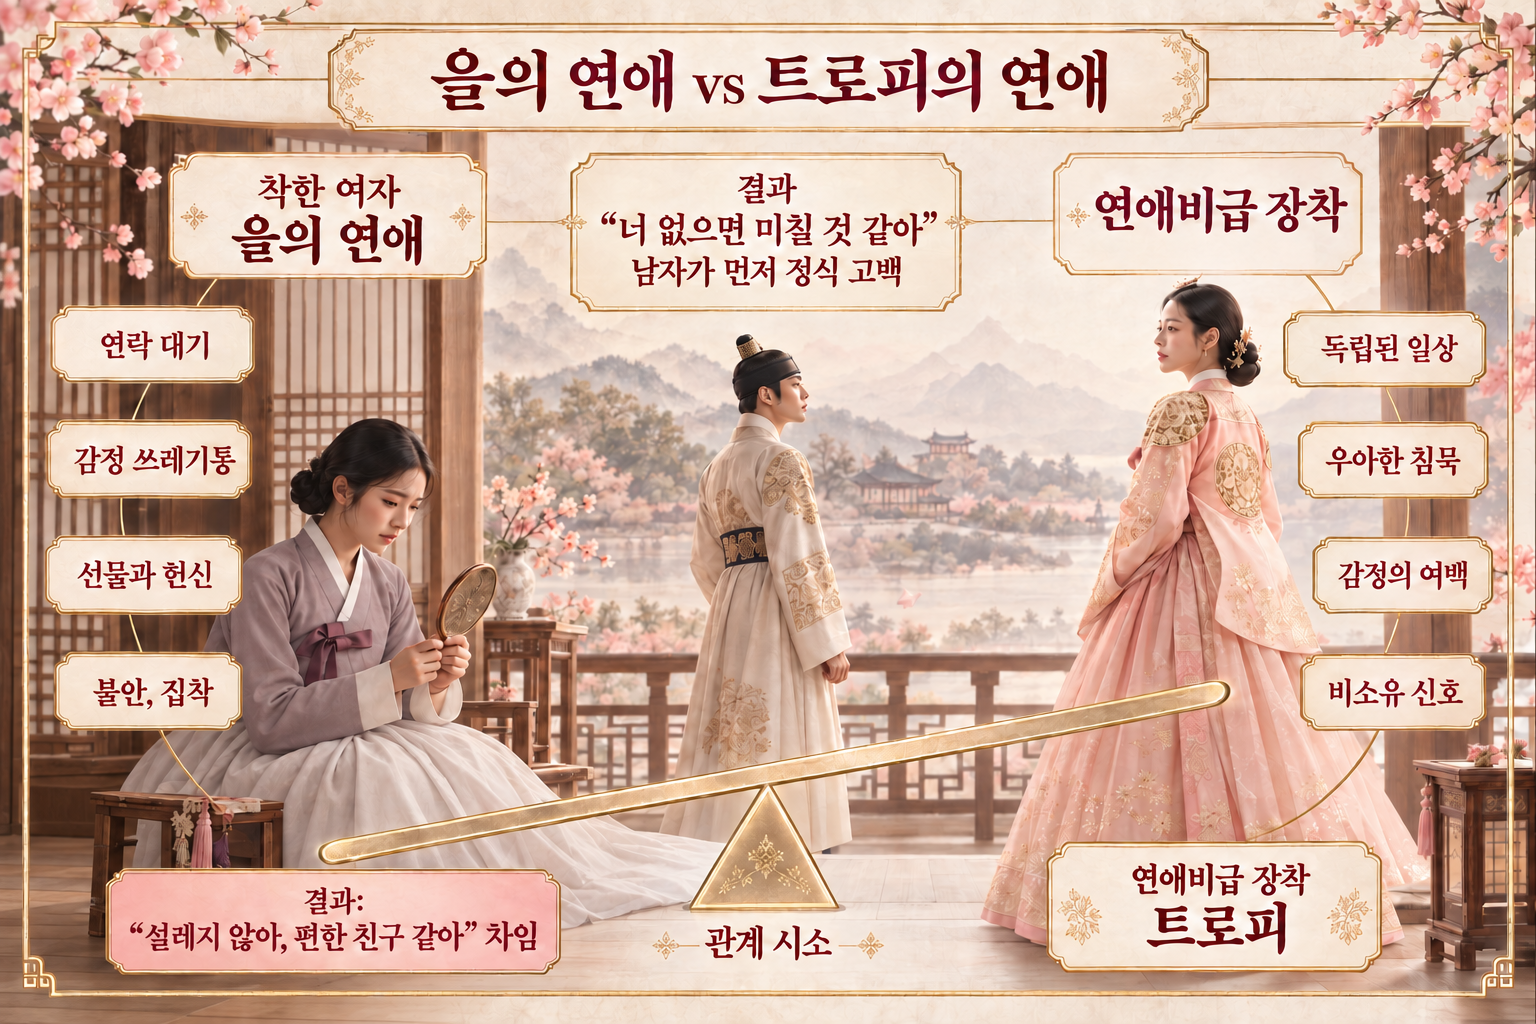
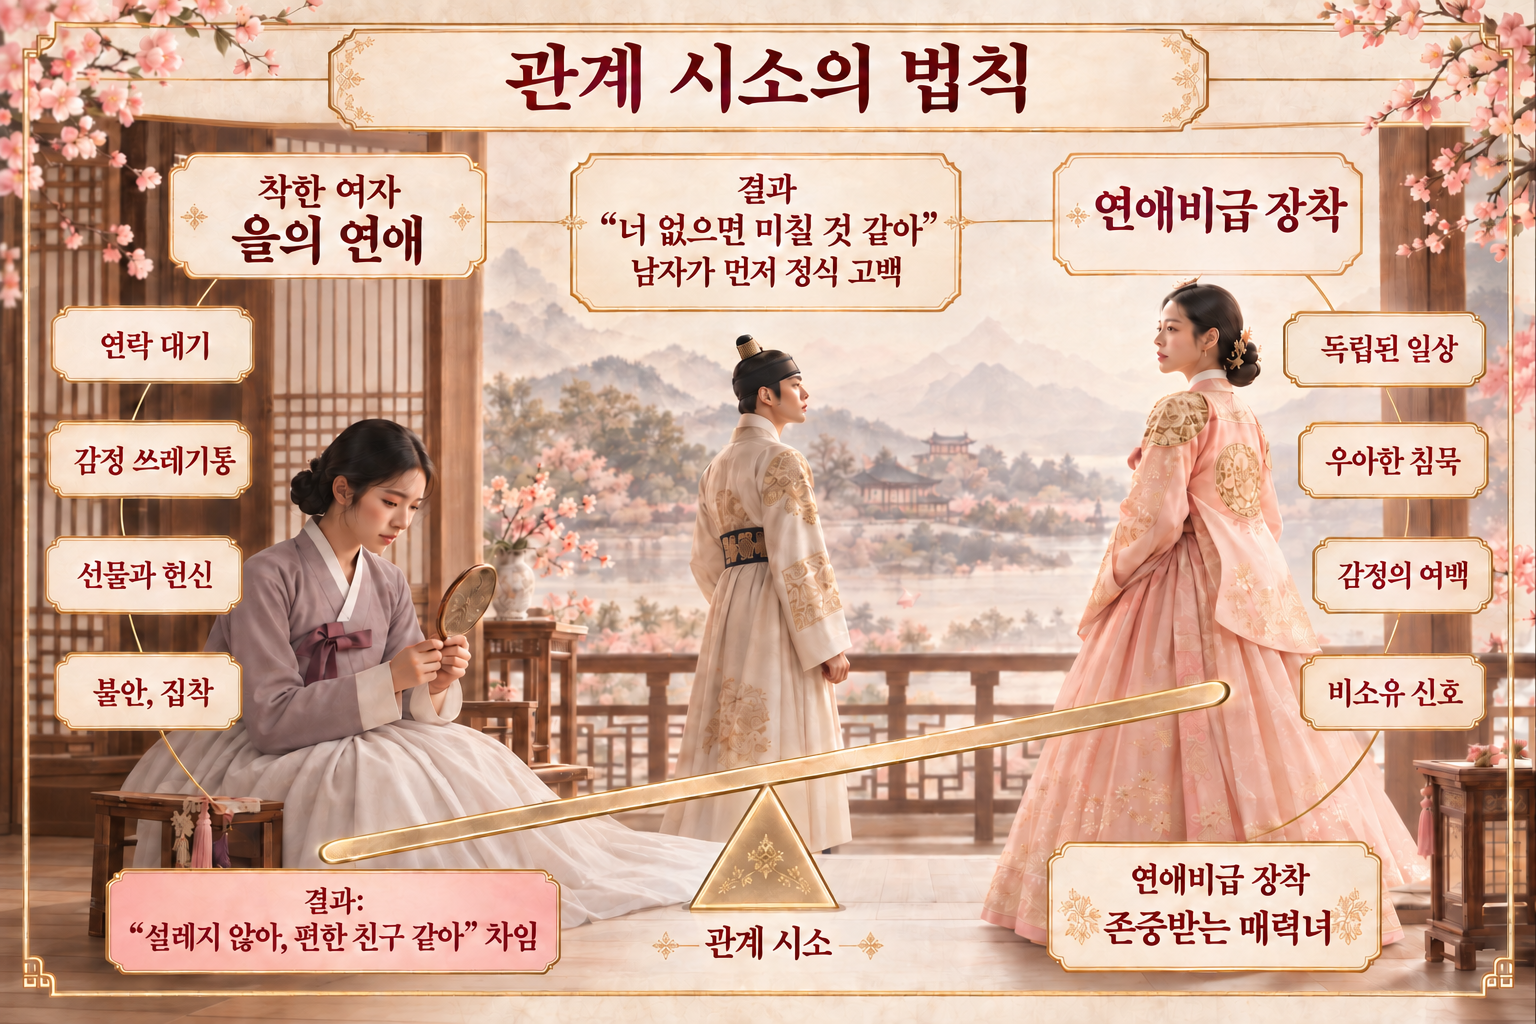
연애비급: 관계 시소 비교 이미지 교체 및 하단 브릿지 카피 추가

diff --git a/app/reports/love-secret/page.tsx b/app/reports/love-secret/page.tsx
@@ -2424,13 +2424,31 @@ export default function LoveSecretEbookPage() {
                   {/* 하단: 전체 폭 대형 관계 비교 이미지 (기존 박스 전체 가로폭 100% 매칭) */}
                   <div className="relative w-full aspect-[3/2] rounded-2xl md:rounded-3xl overflow-hidden border border-[#D4B2A7]/30 shadow-[0_12px_45px_rgba(0,0,0,0.6)] bg-black/40 flex items-center justify-center">
                     <Image
-                      src="/image/love-secret/love-secret-relationship-comparison.png"
+                      src="/image/love-secret/love-secret-relationship-comparison.png?v=2"
                       alt="당신의 헌신이 만만함이 되는 이유, 관계 시소의 법칙 - 관계 비교 인포그래픽"
                       fill
                       sizes="(max-width: 1200px) 100vw, 1152px"
                       className="object-contain"
                       priority
                     />
+                  </div>
+
+                  {/* 이미지 하단 브릿지 카피 (실전 체감 사례로의 연결) */}
+                  <div className="text-center max-w-3xl mx-auto space-y-5 mt-12 md:mt-16 break-keep">
+                    <h3 className="text-xl sm:text-2xl md:text-[32px] font-elegant font-bold text-white leading-[1.5]">
+                      “당신의 헌신이 당연해지던 자리를 떠나,<br className="hidden sm:inline" />
+                      이제 스스로 <span className="text-[#E5C4BB]">‘선택받는 매력녀’</span>가 되십시오.”
+                    </h3>
+
+                    <div className="space-y-2 text-[16px] md:text-[18px] text-[#EDE6DA]/85 leading-[1.8] font-normal">
+                      <p>
+                        사랑을 확인받으려 불안해하던 수많은 여성들이,<br className="hidden sm:inline" />
+                        어떻게 관계의 주도권을 쥐고 먼저 고백받는 주인공이 되었을까요?
+                      </p>
+                      <p className="text-[#E5C4BB] font-medium pt-1">
+                        지금, 먼저 판도를 바꾼 이들의 생생한 변화를 확인하십시오.
+                      </p>
+                    </div>
                   </div>
                 </div>
               </Reveal>
